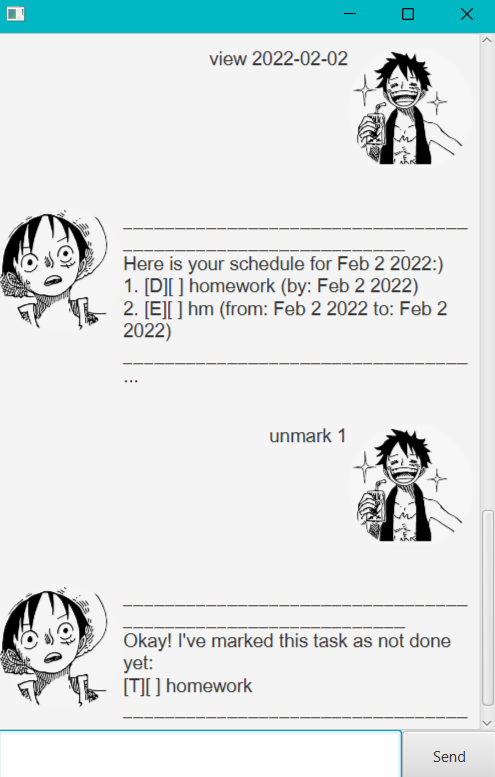
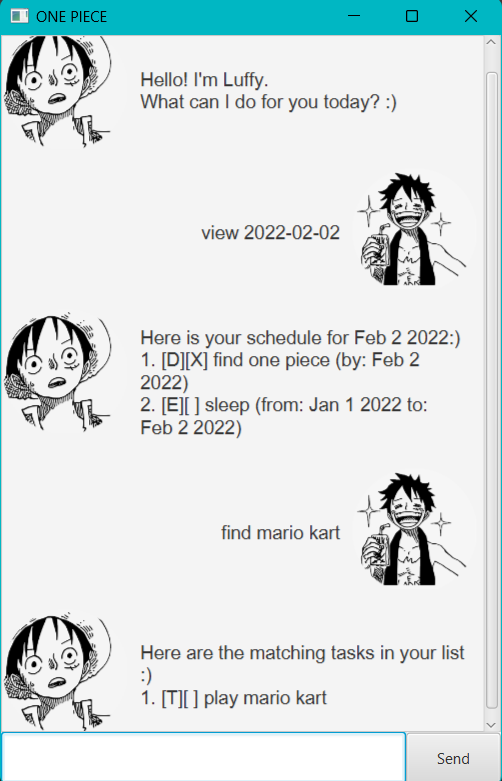
Updated Ui.png and fix text overrun in DialogBox

Changed region(s): [[0.0, 0.0, 1.0, 1.0], [0.4242, 0.6795, 0.697, 0.7104], [0.5455, 0.556, 0.697, 0.5869]]

diff --git a/src/main/java/luffy/ui/Ui.java b/src/main/java/luffy/ui/Ui.java
@@ -46,7 +46,7 @@ public class Ui {
      * @return String containing exit message.
      */
     public String showExit() {
-        return showLine() + "Bye bye! Luffy will go to sleep now!\nHope to see you again soon!! :>\n" + showLine();
+        return "Bye bye! Luffy will go to sleep now!\nHope to see you again soon!! :>\n";
     }
 
     /**
@@ -55,7 +55,7 @@ public class Ui {
      * @return Response after printing lst.
      */
     public String showList(TaskList taskList) {
-        return showLine() + "Here are the tasks in your list:\n" + taskList.printList() + showLine() + showLine();
+        return "Here are the tasks in your list:\n" + taskList.printList() + "\n";
     }
 
     /**
@@ -64,7 +64,7 @@ public class Ui {
      * @return Response after task marked as done.
      */
     public String showMarkedTask(Task task) {
-        return showLine() + "Okay! I've marked this task as done:\n" + task.toString() + "\n" + showLine();
+        return "Okay! I've marked this task as done:\n" + task.toString() + "\n";
     }
 
     /**
@@ -73,8 +73,8 @@ public class Ui {
      * @return Response after task marked as undone.
      */
     public String showUnmarkedTask(Task task) {
-        return showLine() + "Okay! I've marked this task as not done yet:\n"
-                + task.toString() + "\n" + showLine();
+        return "Okay! I've marked this task as not done yet:\n"
+                + task.toString() + "\n";
     }
 
     /**
@@ -84,8 +84,8 @@ public class Ui {
      * @return Response after delete is successful.
      */
     public String showDeletedTask(Task task, int size) {
-        return showLine() + "Okay! I've removed this task from the list:\n" + task.toString() + "\n"
-                + String.format("Now you have %d tasks in the list!\n", size) + showLine();
+        return "Okay! I've removed this task from the list:\n" + task.toString() + "\n"
+                + String.format("Now you have %d tasks in the list!\n", size);
     }
 
     /**
@@ -95,8 +95,8 @@ public class Ui {
      * @return Response after todo successfully created.
      */
     public String showTodo(Todo todo, int size) {
-        return showLine() + "Got it! I've added: \n" + " " + todo.toString() + "\n"
-                + String.format("Now you have %d tasks in the list!\n", size) + showLine();
+        return "Got it! I've added: \n" + " " + todo.toString() + "\n"
+                + String.format("Now you have %d tasks in the list!\n", size);
     }
 
     /**
@@ -106,8 +106,8 @@ public class Ui {
      * @return Response after deadline successfully created.
      */
     public String showDeadline(Deadline deadline, int size) {
-        return showLine() + "Got it! I've added: \n" + " " + deadline.toString() + "\n"
-                + String.format("Now you have %d tasks in the list!\n", size) + showLine();
+        return "Got it! I've added: \n" + " " + deadline.toString() + "\n"
+                + String.format("Now you have %d tasks in the list!\n", size);
     }
 
     /**
@@ -117,13 +117,13 @@ public class Ui {
      * @return Response after event successfully created.
      */
     public String showEvent(Event event, int size) {
-        return showLine() + "Got it! I've added: \n" + " " + event.toString() + "\n"
-                + String.format("Now you have %d tasks in the list!\n", size) + showLine();
+        return "Got it! I've added: \n" + " " + event.toString() + "\n"
+                + String.format("Now you have %d tasks in the list!\n", size);
     }
 
     public String showSchedule(TaskList taskList, LocalDate date) {
         String formattedDate = date.format(DateTimeFormatter.ofPattern("MMM d yyyy"));
-        return showLine() + "Here is your schedule for " + formattedDate + ":)\n"
-                + taskList.printSchedule(date) + showLine();
+        return "Here is your schedule for " + formattedDate + ":)\n"
+                + taskList.printSchedule(date) + "\n";
     }
 }

diff --git a/src/main/java/luffy/ui/DialogBox.java b/src/main/java/luffy/ui/DialogBox.java
@@ -7,13 +7,15 @@ import javafx.collections.FXCollections;
 import javafx.collections.ObservableList;
 import javafx.fxml.FXML;
 import javafx.fxml.FXMLLoader;
+import javafx.geometry.Insets;
 import javafx.geometry.Pos;
 import javafx.scene.Node;
+import javafx.scene.control.Dialog;
 import javafx.scene.control.Label;
 import javafx.scene.image.Image;
 import javafx.scene.image.ImageView;
-import javafx.scene.layout.HBox;
-import javafx.scene.layout.Region;
+import javafx.scene.layout.*;
+import javafx.scene.paint.Color;
 import javafx.scene.shape.Circle;
 
 //@@author wendy0107-reused
@@ -39,8 +41,10 @@ public class DialogBox extends HBox {
         } catch (IOException e) {
             e.printStackTrace();
         }
+        dialog.setPadding(new Insets(5, 10, 0, 10));
         dialog.setText(text);
-        dialog.setMinHeight(Region.USE_PREF_SIZE);
+        this.dialog.setMinHeight(Region.USE_PREF_SIZE);
+        this.dialog.setWrapText(true);
         displayPicture.setImage(img);
         Circle clip = new Circle(50, 50, 50);
         displayPicture.setClip(clip);

diff --git a/src/main/java/luffy/Main.java b/src/main/java/luffy/Main.java
@@ -23,6 +23,7 @@ public class Main extends Application {
             AnchorPane ap = fxmlLoader.load();
             Scene scene = new Scene(ap);
             stage.setScene(scene);
+            stage.setTitle("ONE PIECE");
             fxmlLoader.<MainWindow>getController().setLuffy(luffy);
             stage.show();
         } catch (IOException e) {

diff --git a/src/main/java/luffy/command/FindCommand.java b/src/main/java/luffy/command/FindCommand.java
@@ -23,7 +23,6 @@ public class FindCommand extends Command {
     @Override
     public String execute(TaskList taskList, Ui ui) throws LuffyException {
         String response = taskList.printMatchingList(this.keyword);
-        response += ui.showLine();
         return response;
     }
 }

diff --git a/src/main/java/luffy/Luffy.java b/src/main/java/luffy/Luffy.java
@@ -54,7 +54,6 @@ public class Luffy {
             return response;
         } catch (LuffyException e) {
             response = ui.showError(e.toString());
-            response += ui.showLine();
             return response;
         }
     }
